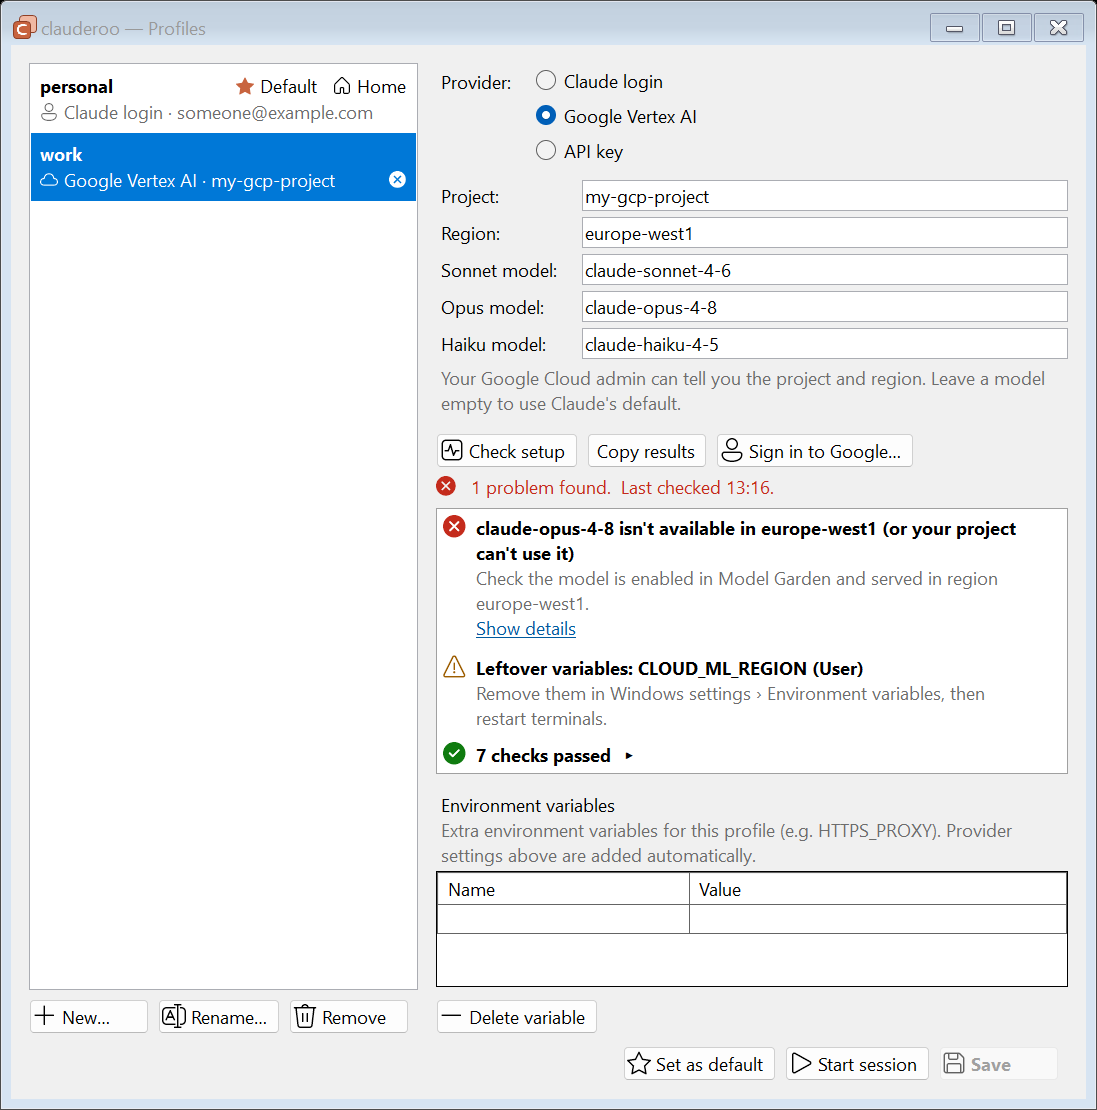
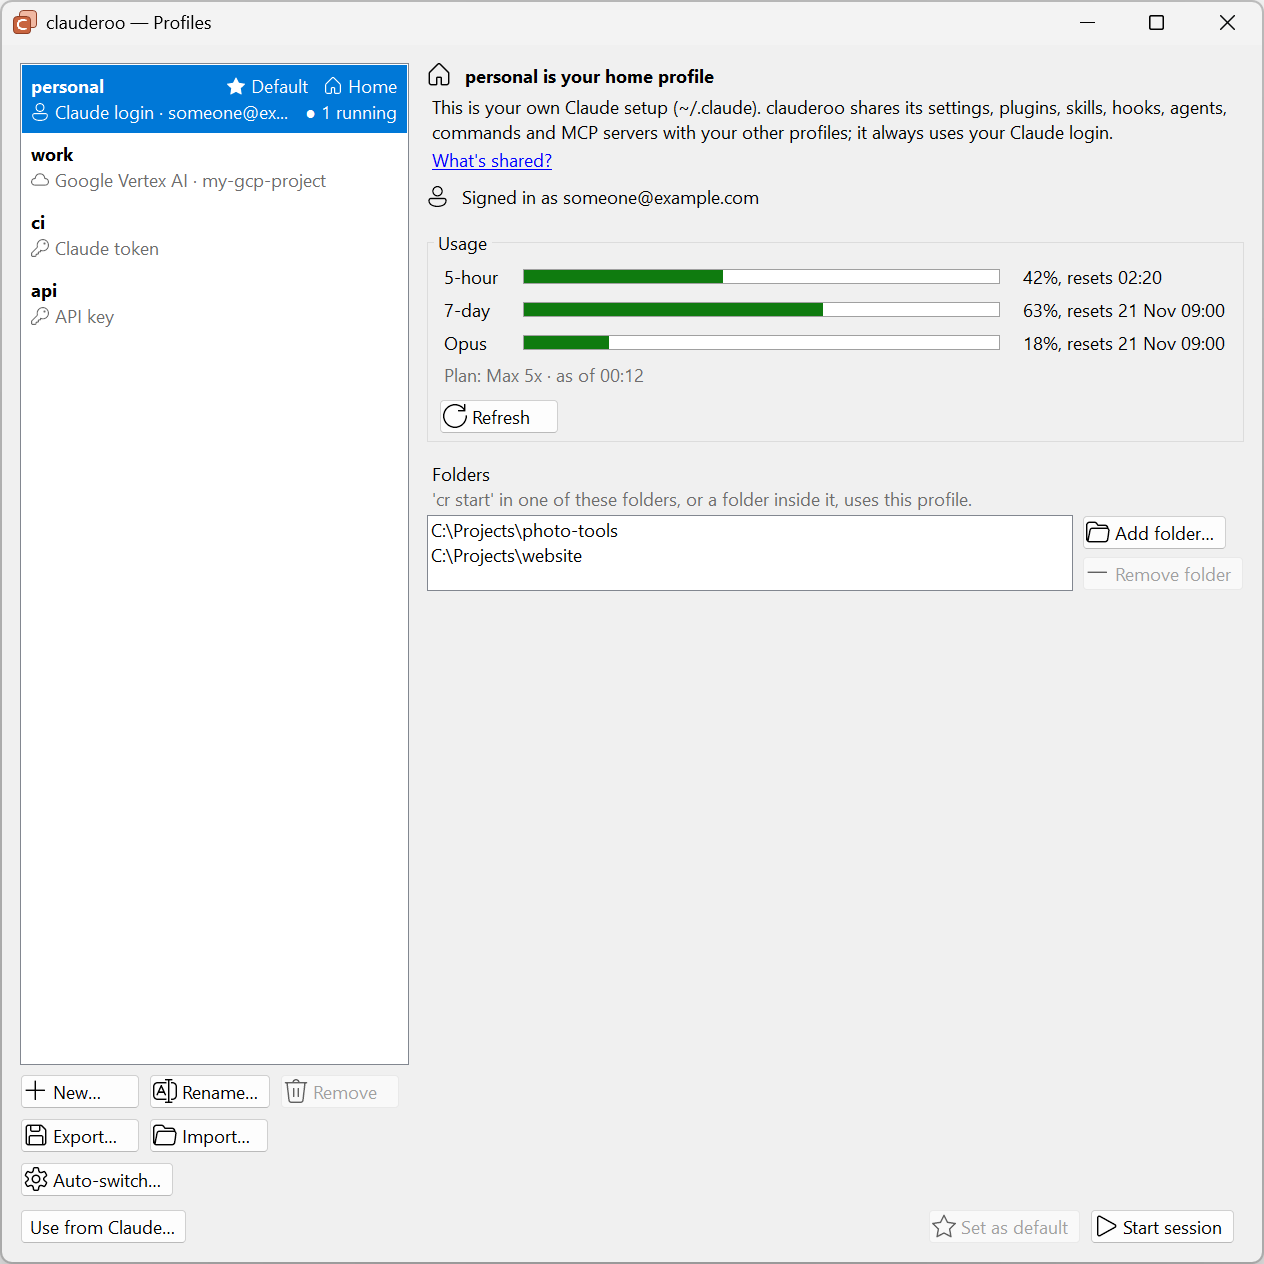
docs: refresh README screenshots (#4)

diff --git a/README.md b/README.md
@@ -59,13 +59,28 @@ clauderoo gives each account its own **profile**, a separate config folder with 
 ## Screenshots
 
 <p align="center">
-  <img src="docs/images/tray-menu.png" width="640" alt="Tray menu showing profiles, the default star and a running session"><br>
-  <em>Tray menu: one entry per profile, with its provider, signed-in account, default marker and running sessions.</em>
+  <img src="docs/images/profiles-window.png" width="640" alt="Profiles window with the home profile selected, showing its usage bars, plan and mapped folders"><br>
+  <em>Profile manager: every profile at a glance, with the home profile's usage, plan and the folders that start it.</em>
 </p>
 
 <p align="center">
-  <img src="docs/images/profiles-window.png" width="640" alt="Profiles window with a Vertex profile and setup check results"><br>
-  <em>Profile manager: provider settings, setup check results with fix hints, and per-profile environment variables.</em>
+  <img src="docs/images/profiles-vertex.png" width="640" alt="Profiles window with a Google Vertex AI profile selected, showing project, region and model fields"><br>
+  <em>A Vertex profile: project, region and models, a setup check, its folders and its own environment variables.</em>
+</p>
+
+<p align="center">
+  <img src="docs/images/tray-menu.png" width="640" alt="Tray menu with the default star, usage on the home profile and its submenu open showing a running session"><br>
+  <em>Tray menu: one entry per profile, with its provider, account, usage, default marker and running sessions.</em>
+</p>
+
+<p align="center">
+  <img src="docs/images/conversations.png" width="640" alt="Continue a conversation window listing past conversations from several profiles"><br>
+  <em>Continue a conversation: pick a past conversation from any profile and carry on with it under another.</em>
+</p>
+
+<p align="center">
+  <img src="docs/images/auto-switch.png" width="400" alt="Auto-switch settings with the threshold and the order of profiles to switch to"><br>
+  <em>Auto-switch: move the default to another profile when it nears a usage limit.</em>
 </p>
 
 ## Requirements
